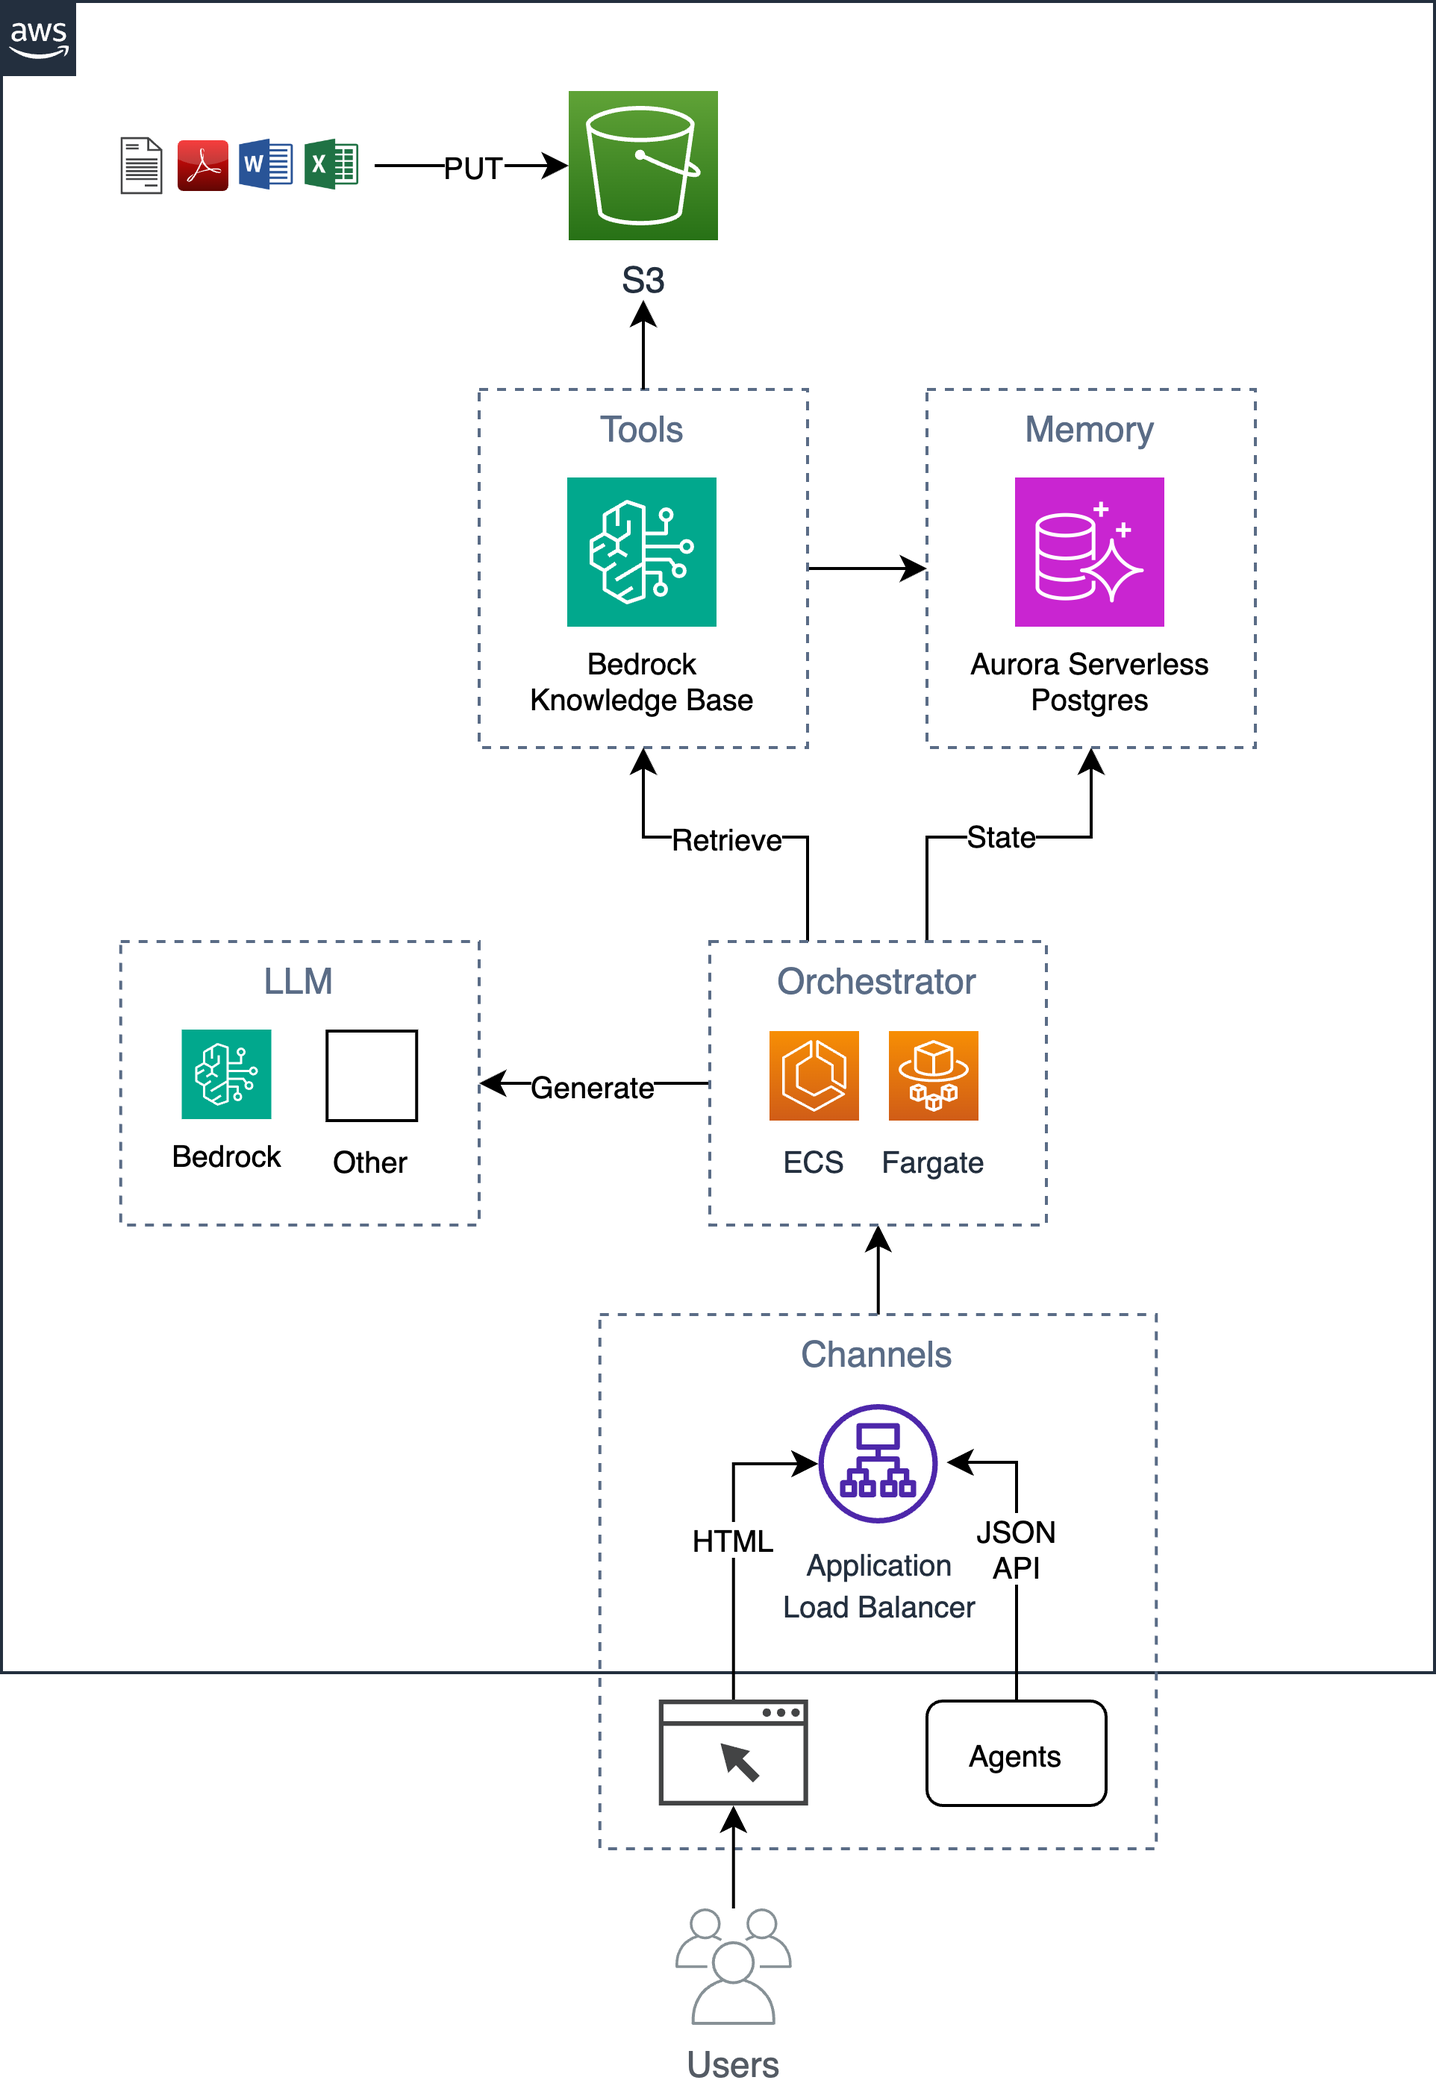
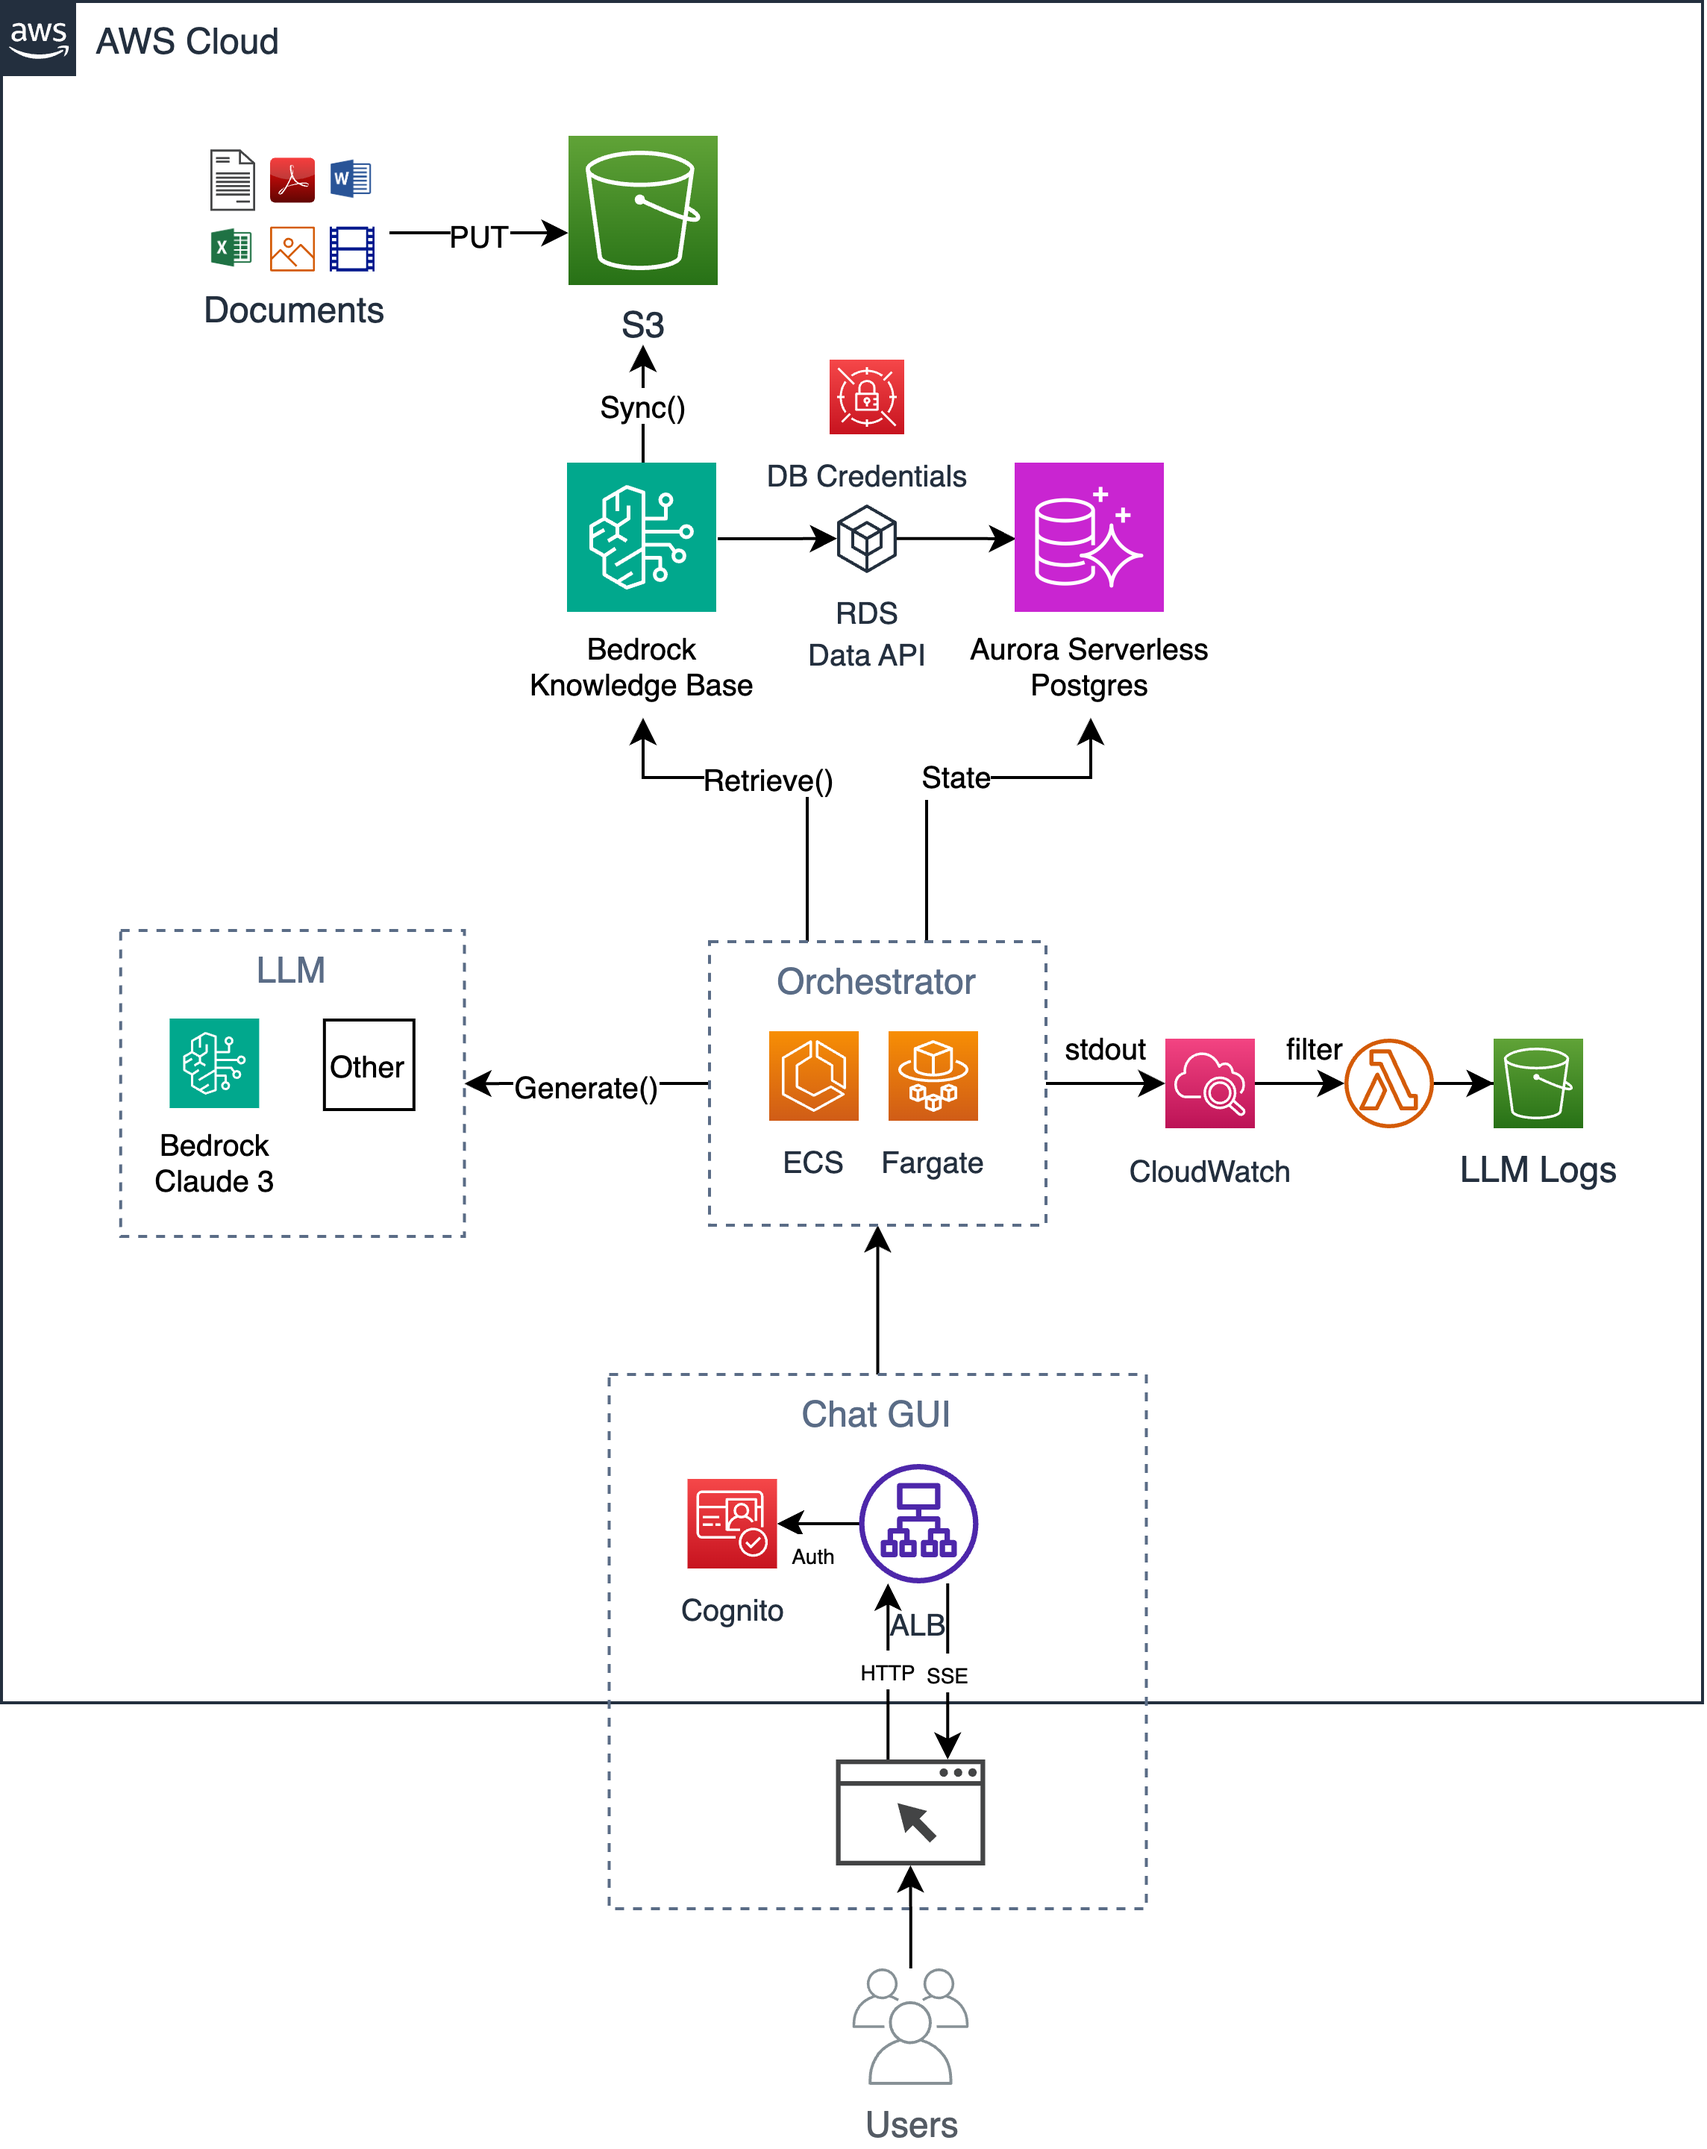
adds logging of llm calls to s3 (#8)
JSON structured logs are written to stdout/CloudWatch. A Lambda function
looks for the llm logs and writes the JSON to S3.

diff --git a/iac/llm-logging.py b/iac/llm-logging.py
@@ -1,0 +1,32 @@
+import os
+import gzip
+import json
+import base64
+import boto3
+from datetime import datetime
+
+s3 = boto3.client("s3")
+
+
+def lambda_handler(event, context):
+    cw_data = event['awslogs']['data']
+    compressed_payload = base64.b64decode(cw_data)
+    uncompressed_payload = gzip.decompress(compressed_payload)
+    payload = json.loads(uncompressed_payload)
+    log_events = payload['logEvents']
+    for log_event in log_events:
+        if log_event['message'].startswith('LLM: '):
+            json_string = log_event['message'][5:]
+            ts = log_event['timestamp']
+            print("timestamp =", ts)
+            dt = datetime.fromtimestamp(ts/1000)
+            ts_str = dt.strftime("%Y/%m/%d")
+            key = f"{ts_str}/{ts}.json"
+
+            print("writing llm log to s3")
+            s3.put_object(Body=json_string,
+                          ContentType="application/json",
+                          Bucket=os.getenv("S3_BUCKET"),
+                          Key=key,
+                          )
+            print("done")

diff --git a/claude3_haiku_v1.py b/claude3_haiku_v1.py
@@ -30,19 +30,29 @@ def generate_message(system_prompt,
 
     logging.info("bedrock.converse()")
 
+    request = {
+        "modelId": model_id,
+        "messages": messages,
+        "system": [{"text": system_prompt}],
+        "inferenceConfig": {
+            "maxTokens": max_tokens,
+            "temperature": temperature,
+            "topP": top_p,
+        },
+    }
+
     response = bedrock.converse(
         modelId=model_id,
         messages=messages,
         system=[{'text': system_prompt}],
         inferenceConfig={
-            'maxTokens': max_tokens,
-            'temperature': temperature,
-            'topP': top_p,
+            "maxTokens": max_tokens,
+            "temperature": temperature,
+            "topP": top_p,
         },
     )
 
-    logging.info("response_body:")
-    log.debug(response)
+    log.llm(request, response)
 
     stop_reason = response["stopReason"]
     if stop_reason != "end_turn":

diff --git a/log.py b/log.py
@@ -20,3 +20,12 @@ def info(obj):
     """log object as json if in info mode"""
     if logging.getLogger().level == logging.INFO:
         logging.info(json.dumps(obj, indent=2, default=str))
+
+
+def llm(input, output):
+    """log llm calls to stdout using specific format"""
+    payload = {
+        "input": input,
+        "output": output
+    }
+    print(f"LLM: {json.dumps(payload, default=str)}")

diff --git a/README.md b/README.md
@@ -7,6 +7,14 @@ An example of a simple, yet scalable, enterprise-ready chatbot that implements t
 ![architecture](./architecture.png)
 
 
+## Key Features
+
+- Implements an AI chat bot using Retrieval Augmented Generation (RAG)
+- Ask questions and get answers
+- See converation history and select to see past converations
+- LLM API calls get logged to an S3 bucket in JSON format (for analysis and testing)
+
+
 ## Usage
 
 Follow the 6 step process below for deploying this solution into your AWS account.
